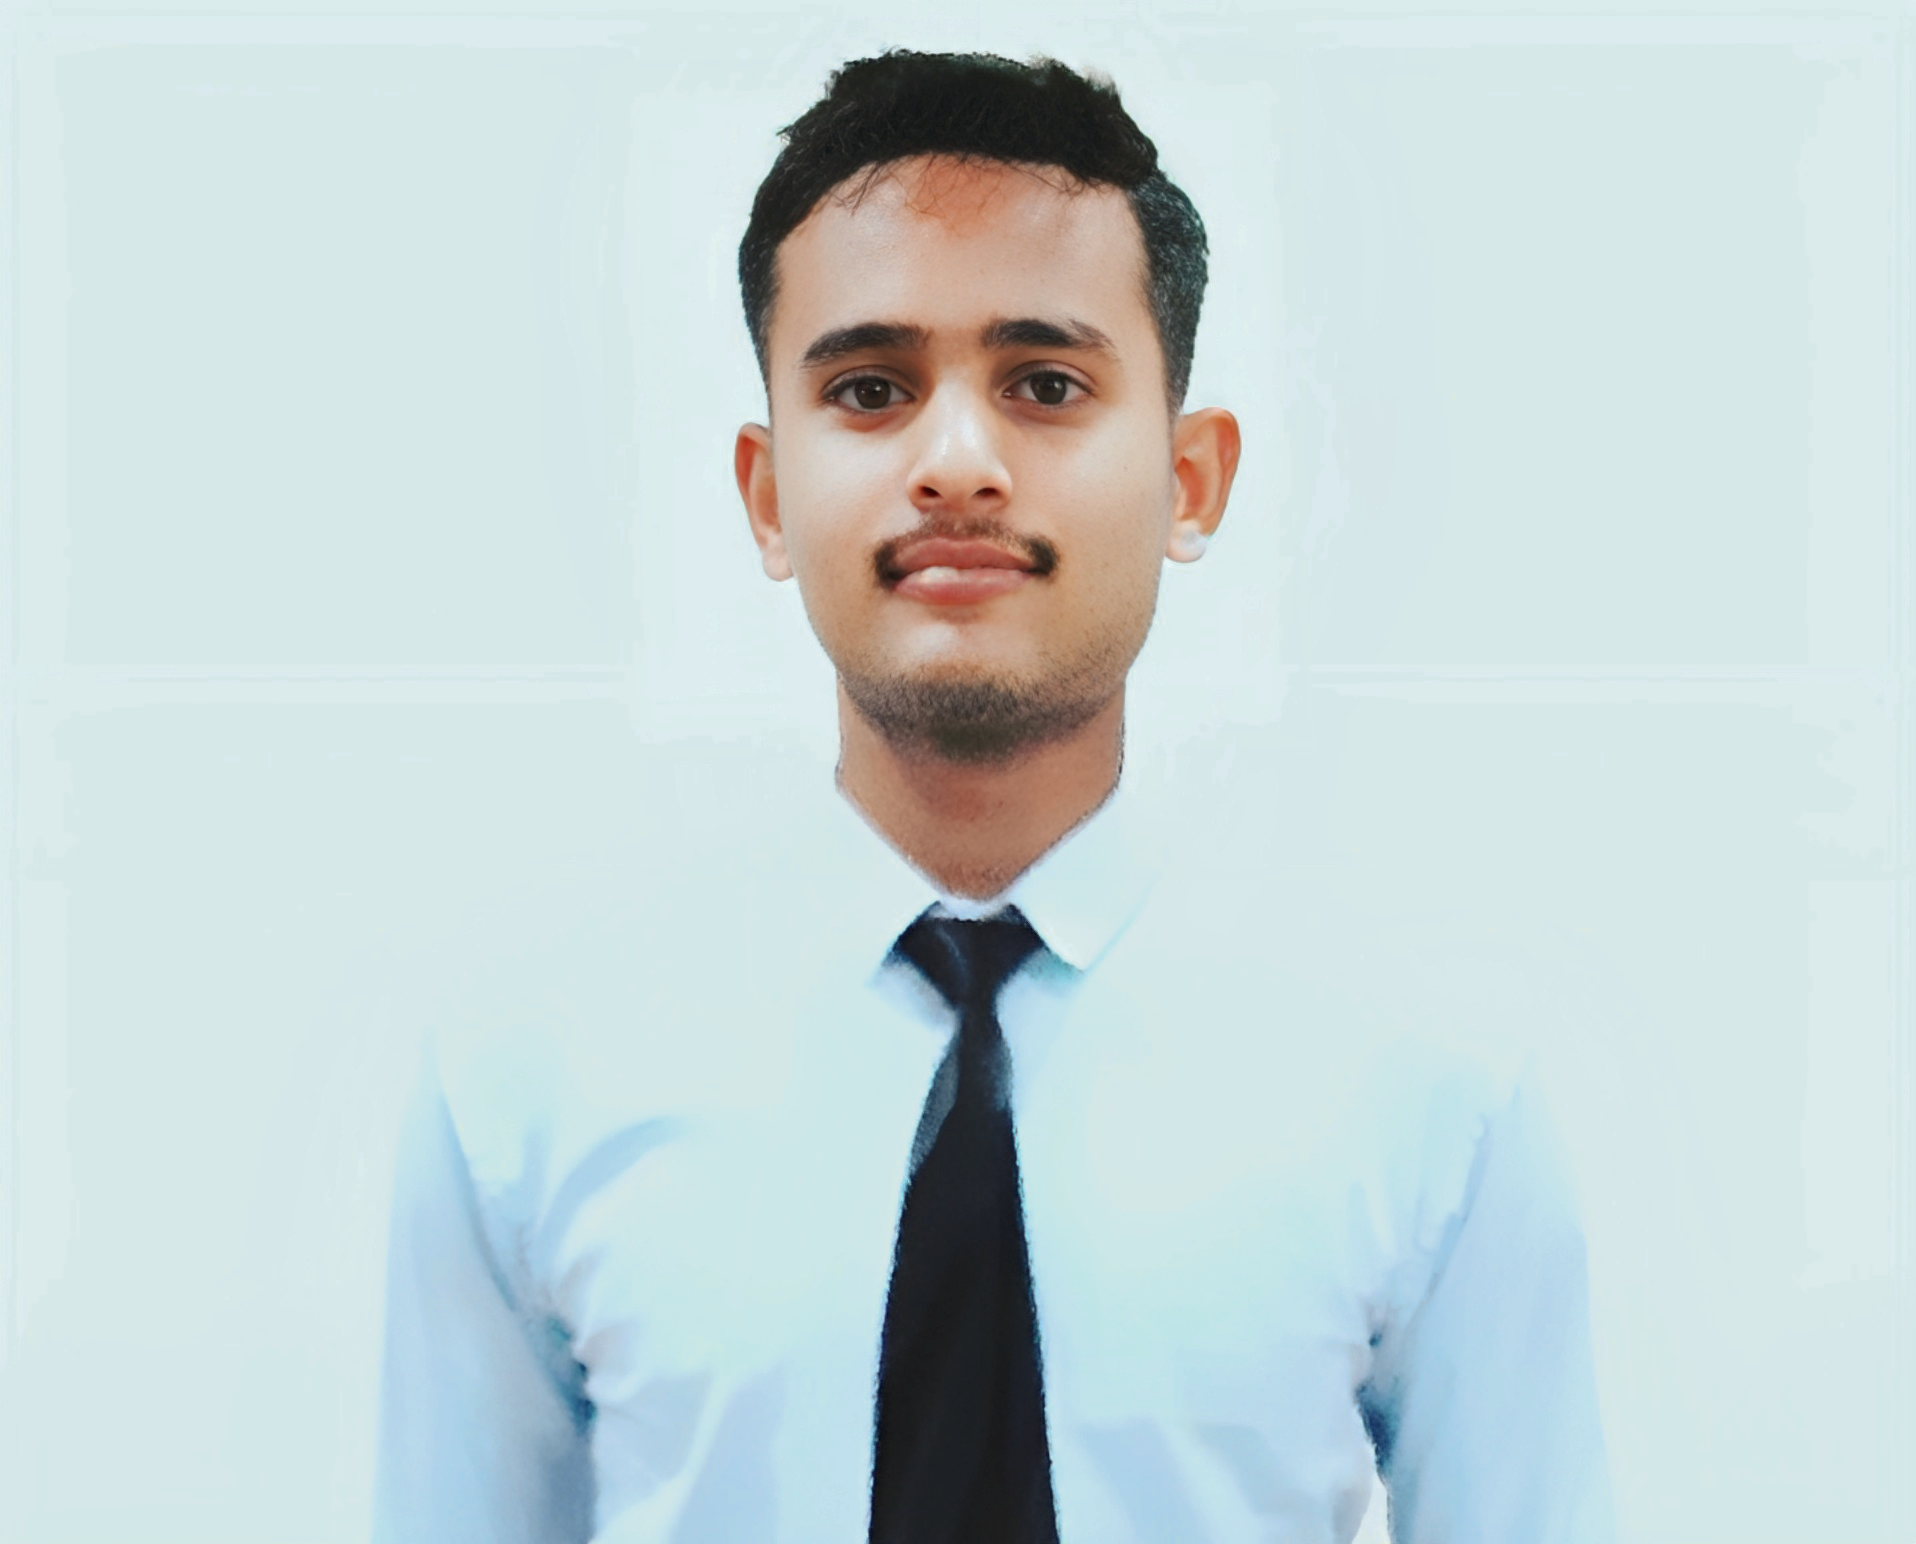
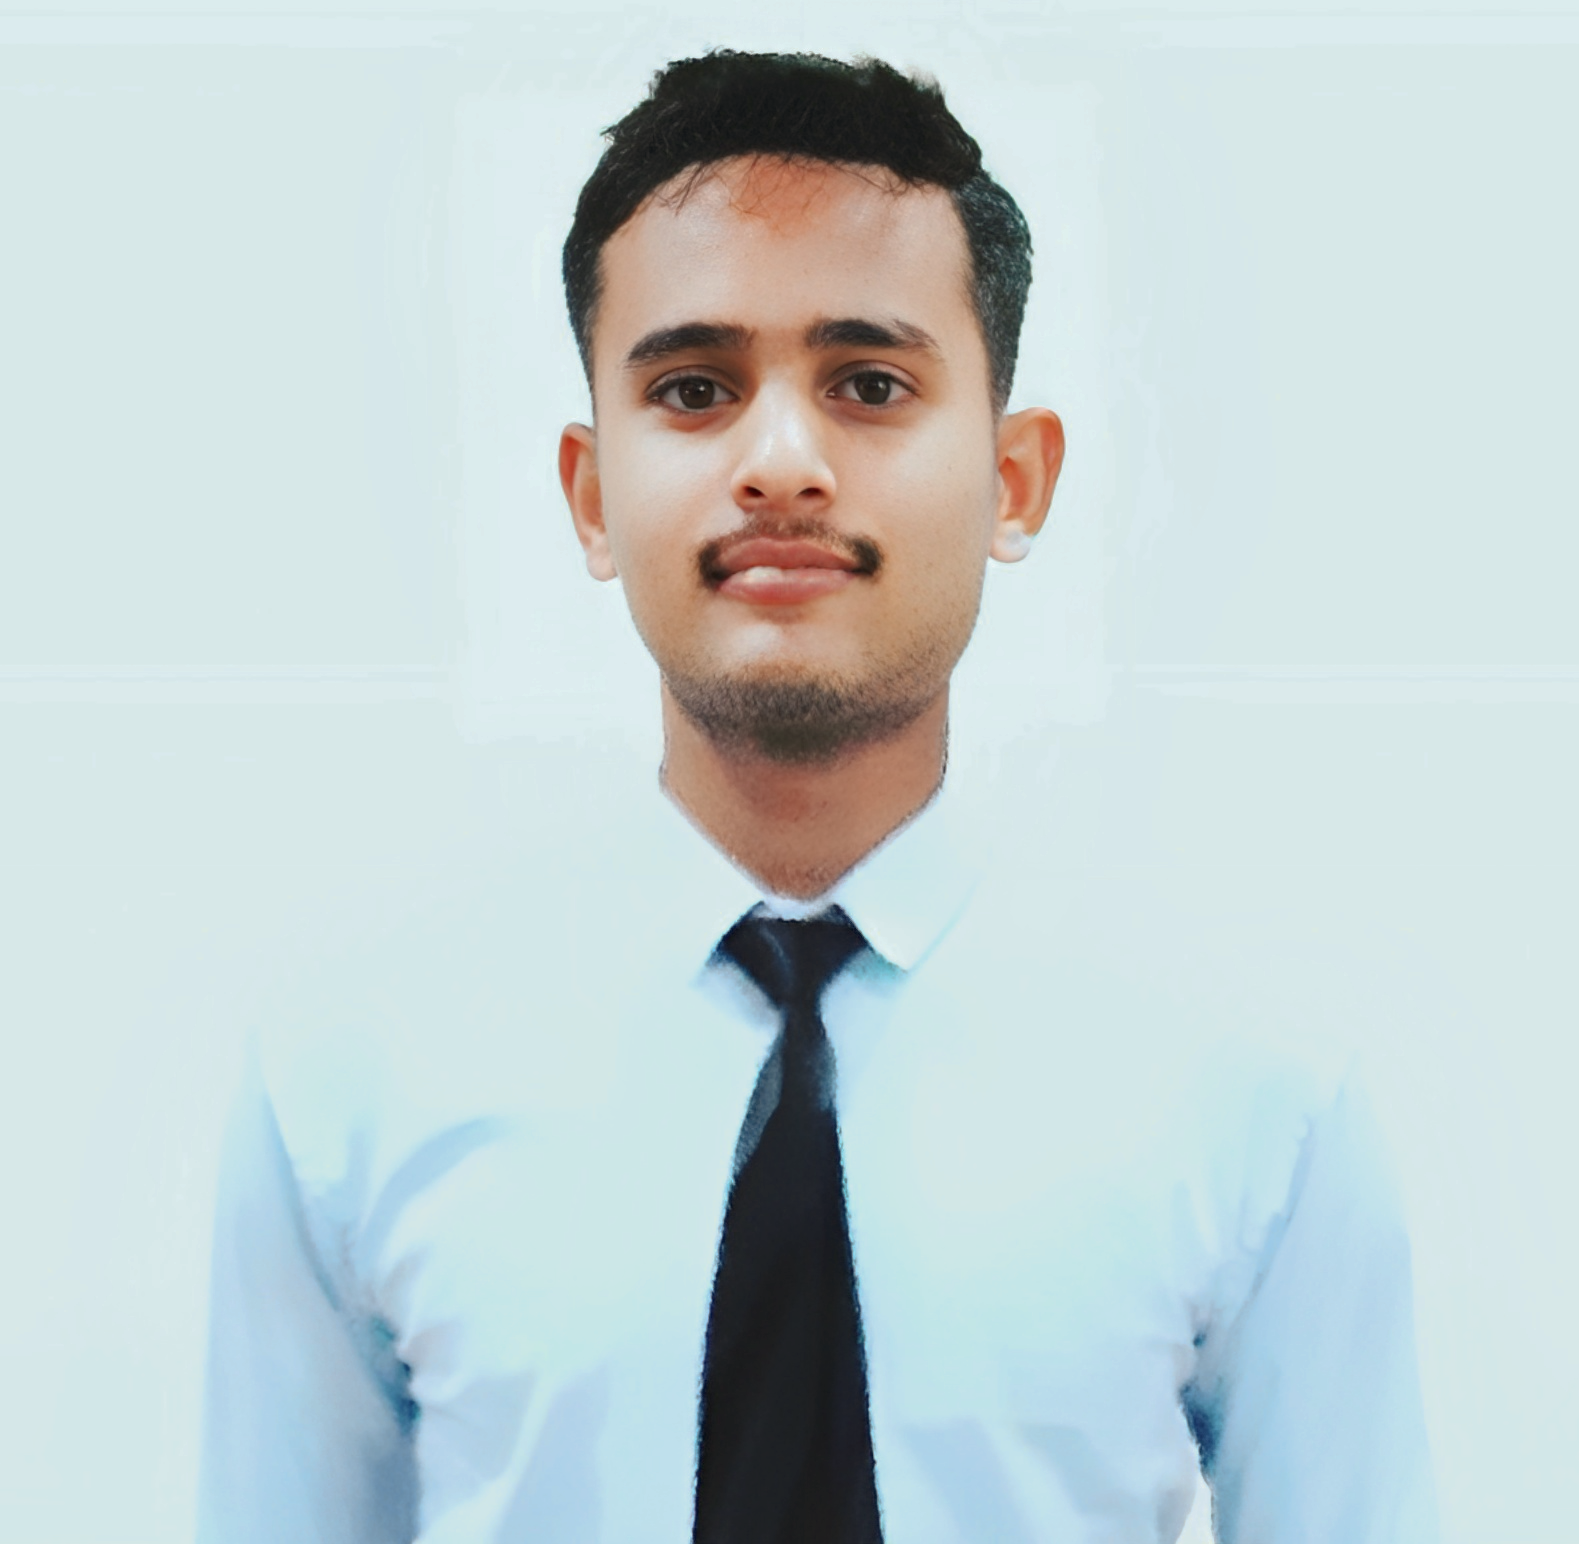
Added profile-pic

diff --git a/src/Components/Home.jsx b/src/Components/Home.jsx
@@ -1,4 +1,5 @@
 import Resume from "../Resume/Rishabh_Vishwakarma_Resume.pdf"
+import mypic from  "../Images/mypic.png"
 
 function Home()
 {
@@ -7,7 +8,7 @@ function Home()
             <div id="home">
             <div>
                 <h1>Hello, my name is <br /> <span>Rishabh Vishwakarma</span> <br /> And I'm a <br /> <span>Full Stack Web Developer</span></h1>
-                <img src="https://media-exp1.licdn.com/dms/image/D4D03AQHxgRDn_19_Tw/profile-displayphoto-shrink_800_800/0/1669238511709?e=1675296000&v=beta&t=qeq_DbL6vG597-_Ns2cR98wprOVxPD1DThzDEx3CeRE"  alt="mypic" />
+                <img src={mypic}  alt="mypic" />
             </div>
             <div id="resume-home" >
                 <a href="https://drive.google.com/file/d/1xNRsBOBiUDKEodIGDfb1yw9utrY-OFbk/view?usp=share_link" target={"blank"} download>

diff --git a/src/Components/Navbar/Navbar.css b/src/Components/Navbar/Navbar.css
@@ -146,9 +146,9 @@ body::-webkit-scrollbar {
 
   #home > div >img{
     border-radius: 50%;
-    width: 300px;
+    width: 350px;
     border: 2px solid #E11D48;
-    margin: 5rem 0;
+    margin: 5rem 0 2rem 0;
   }
   #resume-home a{
     margin: auto;
@@ -550,14 +550,18 @@ body::-webkit-scrollbar {
     }
 
     /* Home */
+    #home{
+      display: block;
+      height: 80vh;
+    }
     #home> div>h1{
       font-size: 1.2em;
       margin-top: -1em;
     }
   
     #home> div>img{
-      width: 200px;
-      margin: 2.5rem 0;
+      width: 40vw;
+      margin-top: 2rem 0;
     }
     #resume-home{
       display: block;
